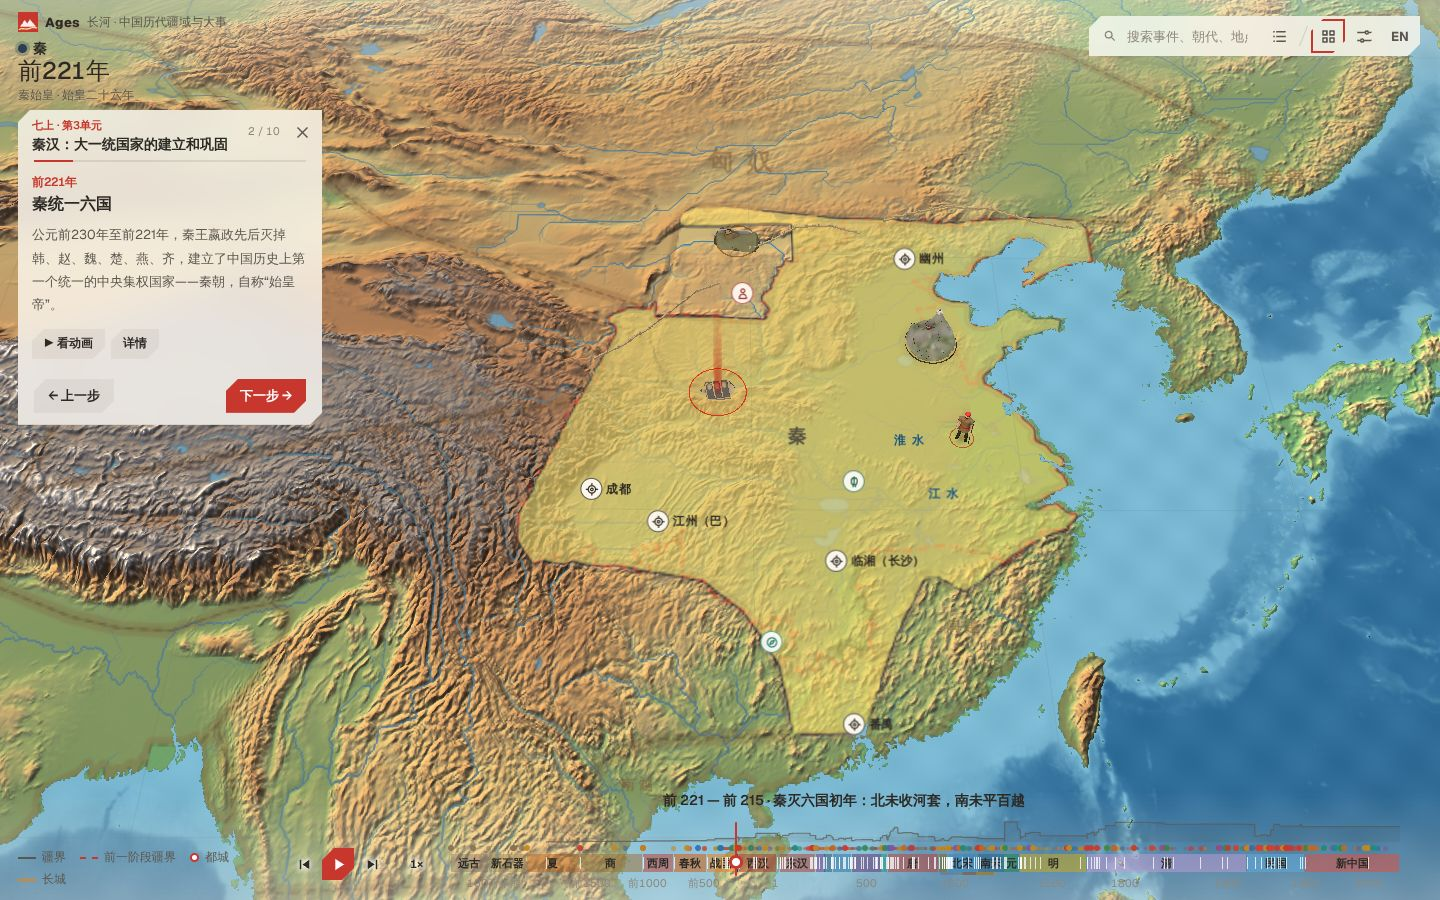
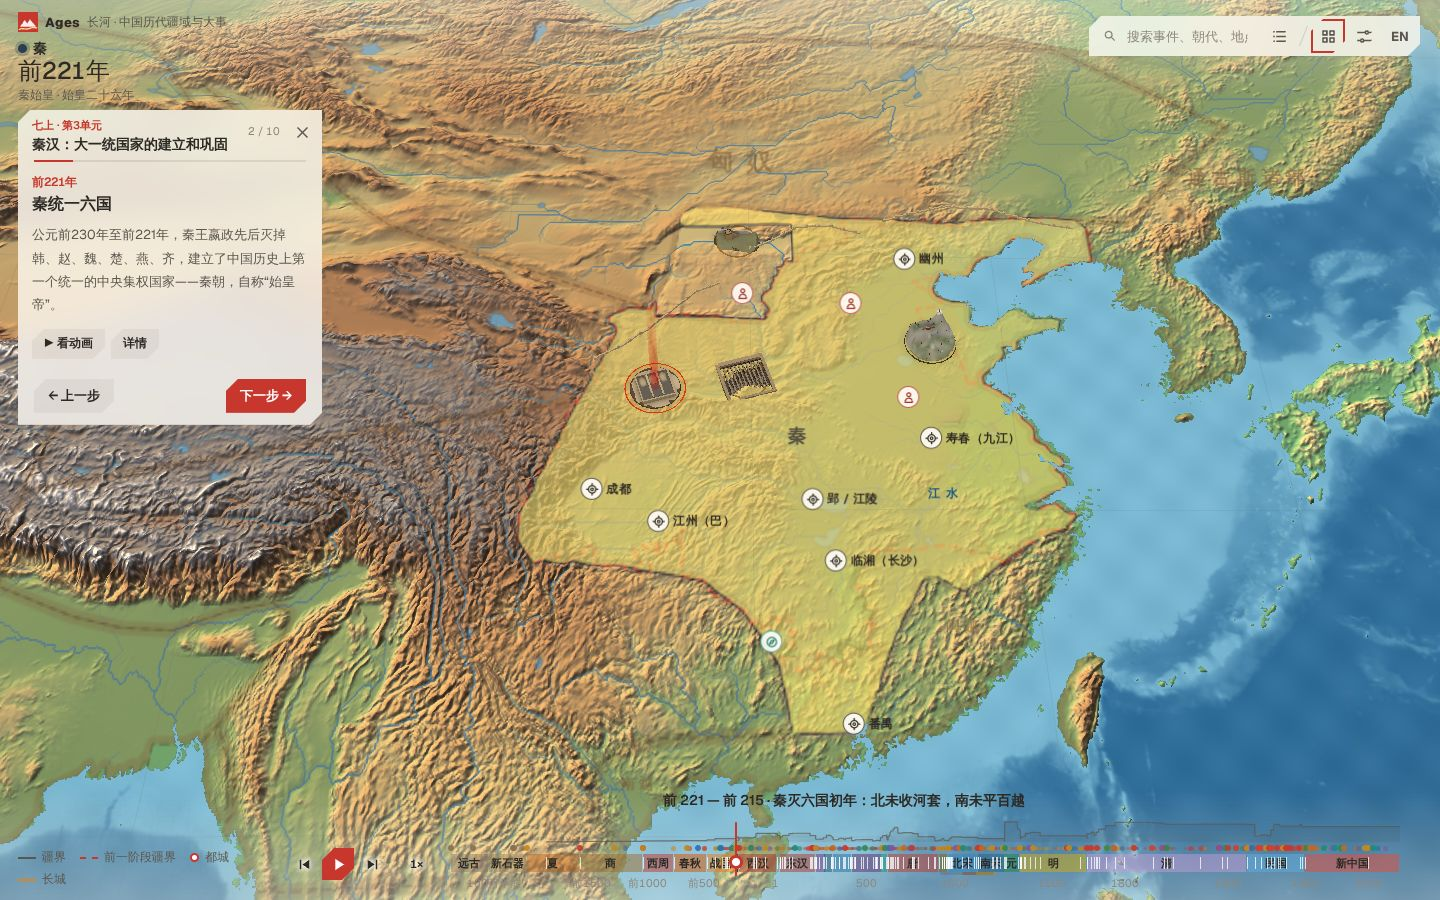
Keep 3D model footprints inland and auto-activate new Service Worker
- Check an 8-point compass perimeter in onLand(lon, lat, pad) and room()
  (including r = 0) while stepping inland first so 3D diorama bases never
  overlap coastal ocean water.
- Move coastal origins for Fuxian (Qingdao peninsula -> Qingzhou) and
  Wei Wen's Yizhou expedition (coastal Tainan -> central Taiwan) inland.
- Restore model-before-label priority in declutter() so capital text labels
  do not hide nearby Level-1 3D models.
- Call self.skipWaiting() after Service Worker precache and reload on
  controllerchange so browsers never stay stuck on a stale cached HTML shell.

diff --git a/src/shared/data/scenery.ts b/src/shared/data/scenery.ts
@@ -98,12 +98,22 @@ const LAND_MASK = (() => {
 })();
 
 const CHINA_BOUNDS = STAGES.china.bounds;
-/** True when `[lon, lat]` lies within a solid-land cell of the East Asia terrain heightmap. */
-export function onLand(lon: number, lat: number): boolean {
+function cellOnLand(lon: number, lat: number): boolean {
   const u = (lon - CHINA_BOUNDS.west) / (CHINA_BOUNDS.east - CHINA_BOUNDS.west);
   const v = (CHINA_BOUNDS.north - lat) / (CHINA_BOUNDS.north - CHINA_BOUNDS.south);
   if (u < 0 || u >= 1 || v < 0 || v >= 1) return false;
   return LAND_MASK[Math.floor(v * LH) * LW + Math.floor(u * LW)] === 1;
+}
+
+/** True when `[lon, lat]` (and an optional `pad`-degree footprint radius) lies within solid land of the East Asia terrain heightmap. */
+export function onLand(lon: number, lat: number, pad = 0): boolean {
+  if (!cellOnLand(lon, lat)) return false;
+  if (pad <= 0) return true;
+  for (let k = 0; k < 8; k++) {
+    const a = (k * Math.PI) / 4;
+    if (!cellOnLand(lon + pad * Math.cos(a) * 1.15, lat + pad * Math.sin(a))) return false;
+  }
+  return true;
 }
 
 /** Generic figures stand straight on the map; named heroes keep their own model. */
@@ -111,28 +121,29 @@ const bare = (m: ModelRecipe): ModelRecipe => (m.hero ? m : { ...m, bare: true }
 
 type Pt = { lon: number; lat: number };
 
-/** The first free spot at `at` or on a land ring around it, keeping `gap` degrees clear of `taken`. */
+const INLAND_ANGLES = [
+  (3 * Math.PI) / 4, Math.PI, -(3 * Math.PI) / 4, Math.PI / 2, -Math.PI / 2, (3 * Math.PI) / 8, Math.PI / 4, -Math.PI / 4, 0,
+  (5 * Math.PI) / 8, (7 * Math.PI) / 8, -(7 * Math.PI) / 8, -(5 * Math.PI) / 8,
+  -(3 * Math.PI) / 8, Math.PI / 8, -Math.PI / 8,
+];
+
+/** The first free spot at `at` or on an inland ring around it, keeping `gap` degrees clear of `taken` and coastlines. */
 function room(at: Pt, taken: Pt[], rings: number[], gap = SPACING): Pt | null {
-  let hitWater = false;
-  for (const r of rings) {
-    for (const offset of [0, Math.PI / 8]) {
-      if (offset && !r) break;
-      for (let k = 0; k < (r ? 8 : 1); k++) {
-        const a = -Math.PI / 4 + offset + (k * Math.PI) / 4;
+  const tryRings = rings[0] === 0
+    ? [0, 0.35, 0.6, ...rings.slice(1), rings[rings.length - 1] + 0.6]
+    : [...rings, rings[rings.length - 1] + 0.6];
+  for (const pad of [0.38, 0.2]) {
+    const padRings = pad < 0.3 && rings[0] > 0 ? [0.75, ...tryRings] : tryRings;
+    for (const r of padRings) {
+      if (r === 0) {
+        if (!taken.some(q => near(q, at, gap)) && onLand(at.lon, at.lat, pad)) return { lon: at.lon, lat: at.lat };
+        continue;
+      }
+      for (const a of INLAND_ANGLES) {
         const p = { lon: at.lon + r * Math.cos(a) * 1.2, lat: at.lat + r * Math.sin(a) };
-        if (taken.some(q => near(q, p, gap))) continue;
-        if (r > 0 && !onLand(p.lon, p.lat)) { hitWater = true; continue; }
+        if (taken.some(q => near(q, p, gap)) || !onLand(p.lon, p.lat, pad)) continue;
         return p;
       }
-    }
-  }
-  if (hitWater) {
-    const r = rings[rings.length - 1] + 0.6;
-    for (let k = 0; k < 16; k++) {
-      const a = -Math.PI / 4 + (k * Math.PI) / 8;
-      const p = { lon: at.lon + r * Math.cos(a) * 1.2, lat: at.lat + r * Math.sin(a) };
-      if (taken.some(q => near(q, p, gap)) || !onLand(p.lon, p.lat)) continue;
-      return p;
     }
   }
   return null;

diff --git a/src/shared/data/events-early.ts b/src/shared/data/events-early.ts
@@ -310,7 +310,7 @@ export const EVENTS_EARLY: HistEvent[] = [
       'As chancellor of Shu Han, Zhuge Liang developed the southwest and pacified the southern borderlands, then submitted the Memorial on Deploying the Troops and led five northern expeditions (228–234) against Sima Yi until his death on the Wuzhang Plains.'],
     p: [['发展西南与改善民族关系', 'developing the southwest'], ['《出师表》与五次北伐', 'Memorial on Deploying the Troops; five northern expeditions'], ['五丈原对峙司马懿', 'standoff with Sima Yi at Wuzhang Plains']],
     wiki: ['诸葛亮北伐', 'Zhuge Liang’s Northern Expeditions'] }),
-  ev({ id: 'weiwen_yizhou', y: 230, k: 'diplomacy', at: [120.2, 23.0], w: 2, m: 'warship', c: 'g7a.4 hs1.2', who: [['孙权', 'Sun Quan']],
+  ev({ id: 'weiwen_yizhou', y: 230, k: 'diplomacy', at: [120.85, 23.65], w: 2, m: 'warship', c: 'g7a.4 hs1.2', who: [['孙权', 'Sun Quan']],
     t: ['孙吴开发江南与卫温赴夷洲', 'Eastern Wu develops Jiangnan; fleet to Yizhou'],
     s: ['孙吴大力兴修江南水利、发展造船与海外贸易。230年，孙权派将军卫温、诸葛直率万人船队到达夷洲（今台湾），加强了大陆与台湾地区的早期联系。',
       'Eastern Wu expanded Jiangnan irrigation and shipbuilding. In 230 CE Sun Quan dispatched General Wei Wen with a fleet of ten thousand men to Yizhou (Taiwan), a milestone in early mainland–Taiwan ties.'],

diff --git a/src/client/scene/layout.ts b/src/client/scene/layout.ts
@@ -35,20 +35,11 @@ export function declutter(models: LayoutItem[], labels: LayoutItem[]): void {
   };
   const priorityLabels = labels.filter(l => l.pinned && !l.passive && (!l.model || l.model.pinned));
   for (const l of priorityLabels.sort(rank)) placeOnce(l);
-  for (const m of models.filter(m => m.pinned).sort(rank)) {
-    placeOnce(m);
-    if (m.shown) for (const l of labels.filter(x => x.model === m && !x.passive).sort(rank)) placeOnce(l);
-  }
-  for (const m of models.filter(m => !m.pinned && m.prio >= 90).sort(rank)) {
-    placeOnce(m);
-    if (m.shown) for (const l of labels.filter(x => x.model === m && !x.passive).sort(rank)) placeOnce(l);
-  }
+  for (const m of models.filter(m => m.pinned).sort(rank)) placeOnce(m);
+  for (const m of models.filter(m => !m.pinned && m.prio >= 90).sort(rank)) placeOnce(m);
   const primaryLabels = labels.filter(l => l.primary && !priorityLabels.includes(l));
   for (const l of primaryLabels.sort(rank)) placeOnce(l);
-  for (const m of models.filter(m => !m.pinned && m.prio < 90).sort(rank)) {
-    placeOnce(m);
-    if (m.shown) for (const l of labels.filter(x => x.model === m && !x.passive).sort(rank)) placeOnce(l);
-  }
+  for (const m of models.filter(m => !m.pinned && m.prio < 90).sort(rank)) placeOnce(m);
   for (const l of labels.slice().sort(rank)) {
     if (!l.model || l.model.shown) placeOnce(l);
   }

diff --git a/src/shared/data/life.ts b/src/shared/data/life.ts
@@ -268,7 +268,7 @@ B('mogao', ['莫高窟', 'Mogao Caves'], [94.8, 40.04], hero('china/cn_mogao', '
   ['366年乐僔开凿第一窟，千年间凿成七百多窟，壁画与彩塑辉煌。', 'Begun in 366 by the monk Le Zun; over a thousand years 700 caves of murals and statues were cut.'], { wiki: ['莫高窟', 'Mogao Caves'] });
 P('顾恺之', [118.0, 31.2], { prop: 'brush', year: 380, en: 'Gu Kaizhi', tier: 2,
   desc: ['画家，作《洛神赋图》《女史箴图》，主张“以形写神”。', 'Painter of Nymph of the Luo River, who held that form must convey spirit.'] });
-P('法显', [120.38, 36.07], { en: 'Faxian', role: 'monk', year: 410, prop: 'staff', tier: 2,
+P('法显', [118.48, 36.68], { en: 'Faxian', role: 'monk', year: 410, prop: 'staff', tier: 2,
   desc: ['东晋高僧，西行天竺求法十四年，自海路归国于青州牢山登陆，著《佛国记》。', 'Eastern Jin monk who walked to India and returned by sea to Laoshan in 412, writing A Record of Buddhistic Kingdoms.'], wiki: ['法显', 'Faxian'] });
 
 era('nanbei');

diff --git a/tests/e2e/app.spec.ts b/tests/e2e/app.spec.ts
@@ -1271,7 +1271,15 @@ test.describe('Ages atlas', () => {
     });
     const seaModels = await page.evaluate(models => {
       const geo = (window as any).__atlas.atlas.geo;
-      return models.filter(m => !geo.isLand(m.lon, m.lat)).map(m => `${m.id}@${m.lon.toFixed(2)},${m.lat.toFixed(2)}`);
+      const footprintOnLand = (lon: number, lat: number, r = 0.32) => {
+        if (!geo.isLand(lon, lat)) return false;
+        for (let k = 0; k < 8; k++) {
+          const a = (k * Math.PI) / 4;
+          if (!geo.isLand(lon + r * Math.cos(a) * 1.15, lat + r * Math.sin(a))) return false;
+        }
+        return true;
+      };
+      return models.filter(m => !footprintOnLand(m.lon, m.lat)).map(m => `${m.id}@${m.lon.toFixed(2)},${m.lat.toFixed(2)}`);
     }, allEraModels);
     expect(seaModels).toEqual([]);
 

diff --git a/src/client/main.ts b/src/client/main.ts
@@ -807,8 +807,15 @@ function fatal(msg: string, retry: boolean): void {
 
 // offline support (production builds only; see src/client/sw.js)
 if (import.meta.env.PROD && 'serviceWorker' in navigator) {
+  const hadController = !!navigator.serviceWorker.controller;
+  let refreshing = false;
+  navigator.serviceWorker.addEventListener('controllerchange', () => {
+    if (!hadController || refreshing) return;
+    refreshing = true;
+    location.reload();
+  });
   addEventListener('load', () => {
-    navigator.serviceWorker.register(`${import.meta.env.BASE_URL}sw.js`)
+    navigator.serviceWorker.register(`${import.meta.env.BASE_URL}sw.js`, { updateViaCache: 'none' })
       .catch(err => console.warn('Offline support could not be registered.', err));
   });
 }

diff --git a/tests/unit/data.test.ts b/tests/unit/data.test.ts
@@ -439,10 +439,7 @@ describe('imported jiangshan-map content', () => {
         if (cap) {
           expect(Math.hypot(it.lon - cap.lon, it.lat - cap.lat), `${era.id} ${it.life?.id ?? it.event} vs capital ${cap.id}`).toBeGreaterThanOrEqual(1.1 - 1e-9);
         }
-        const orig = it.life ?? EVENTS.find(e => e.id === it.event)!;
-        if (it.lon !== orig.lon || it.lat !== orig.lat) {
-          expect(onLand(it.lon, it.lat), `${era.id} ${it.life?.id ?? it.event} stepped into water`).toBe(true);
-        }
+        expect(onLand(it.lon, it.lat, 0.2), `${era.id} ${it.life?.id ?? it.event} footprint near water`).toBe(true);
       }
     }
   });

diff --git a/tests/unit/service-worker.test.ts b/tests/unit/service-worker.test.ts
@@ -63,11 +63,11 @@ describe('offline service worker', () => {
     expect(self.skipWaiting).not.toHaveBeenCalled();
   });
 
-  it('leaves an existing worker in control until its clients close', async () => {
+  it('activates immediately once the full precache succeeds', async () => {
     const { cache, self, dispatch } = harness();
     await dispatch('install');
     expect(cache.addAll).toHaveBeenCalledOnce();
-    expect(self.skipWaiting).not.toHaveBeenCalled();
+    expect(self.skipWaiting).toHaveBeenCalledOnce();
   });
 
   it('deletes only obsolete caches for its own scope', async () => {

diff --git a/src/client/sw.js b/src/client/sw.js
@@ -16,6 +16,7 @@ self.addEventListener('install', e => {
   e.waitUntil(caches.open(CACHE)
     .then(c => c.addAll([SCOPE.href, ...PRECACHE.map(f => new URL(f, SCOPE).href)]
       .map(u => new Request(u, { cache: 'no-cache' }))))
+    .then(() => self.skipWaiting())
     .catch(async err => {
       try { await caches.delete(CACHE); } catch (cleanupErr) { console.warn('Failed to remove incomplete offline cache.', cleanupErr); }
       throw err;
